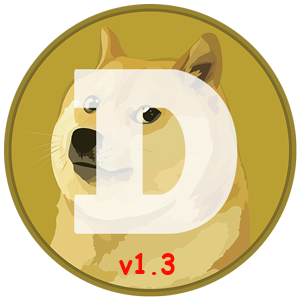
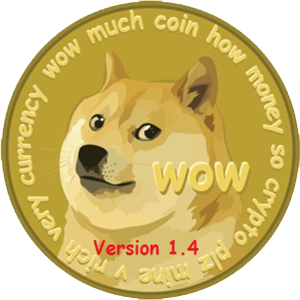
1.4 graphic and Very Contact instead of Very Address in QT

diff --git a/src/qt/bitcoingui.cpp b/src/qt/bitcoingui.cpp
@@ -219,8 +219,8 @@ void BitcoinGUI::createActions()
     historyAction->setShortcut(QKeySequence(Qt::ALT + Qt::Key_4));
     tabGroup->addAction(historyAction);
 
-    addressBookAction = new QAction(QIcon(":/icons/address-book"), tr("&Very Address"), this);
-    addressBookAction->setToolTip(tr("Edit the list of stored addresses and labels"));
+    addressBookAction = new QAction(QIcon(":/icons/address-book"), tr("&Very Contacts"), this);
+    addressBookAction->setToolTip(tr("Edit the list of stored addresses and labels for sending"));
     addressBookAction->setCheckable(true);
     addressBookAction->setShortcut(QKeySequence(Qt::ALT + Qt::Key_5));
     tabGroup->addAction(addressBookAction);
